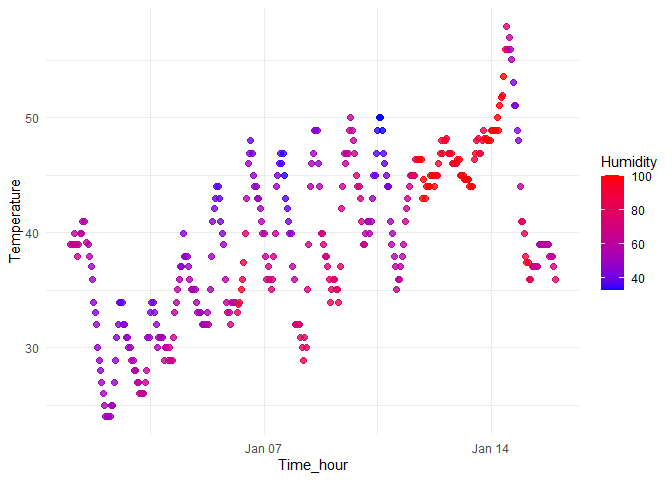
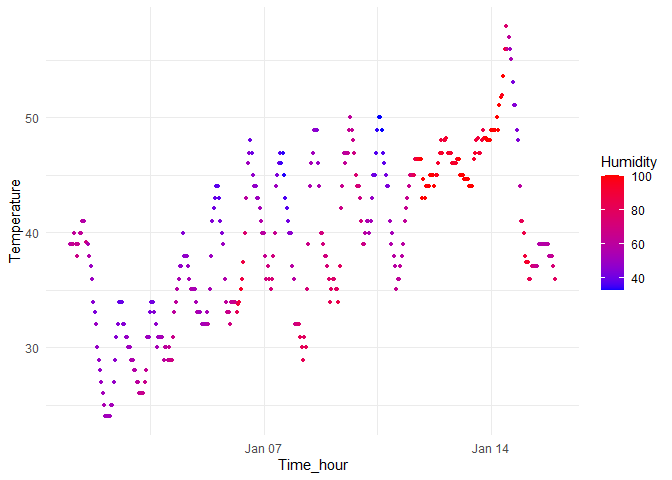
the third time of Problem 2

diff --git a/p8105_hw1_bz2570.md b/p8105_hw1_bz2570.md
@@ -108,7 +108,7 @@ Sys.setlocale("LC_TIME","English")
 
 ``` r
 scatterplot <- ggplot(early_january_weather, aes(x = time_hour, y = temp, color = humid)) +
-  geom_point(size = 2, alpha = 0.8) +        
+  geom_point(size = 1) +        
   scale_color_gradient(low = "blue", high = "red") + 
   labs(x = "Time_hour", y = "Temperature", color = "Humidity") +
   theme_minimal()
@@ -194,3 +194,17 @@ cat(" The mean of random sample is",mean_random,"\n",
     ##  The mean of logical vector is 0.4 
     ##  The mean of character vector  is NA 
     ##  The mean of factor vector is NA
+
+##### Description
+
+Taking the mean works on numeric(random_stample) and logical variable
+(logical_vector) because logical vectors are automatically converted to
+numbers (TRUE = 1, FALSE = 0). However, it doesn’t work on character
+(char_vector) and factor (factor_vector) variables, which generate NA
+with a warning.<br/>
+
+#### Applies the as.numeric function
+
+logical_as_numeric \<- as.numeric(pull(df, logical_vector)) <br/>
+char_as_numeric \<- as.numeric(pull(df, char_vector)) <br/>
+factor_as_numeric \<- as.numeric(pull(df, factor_vector)) <br/>
